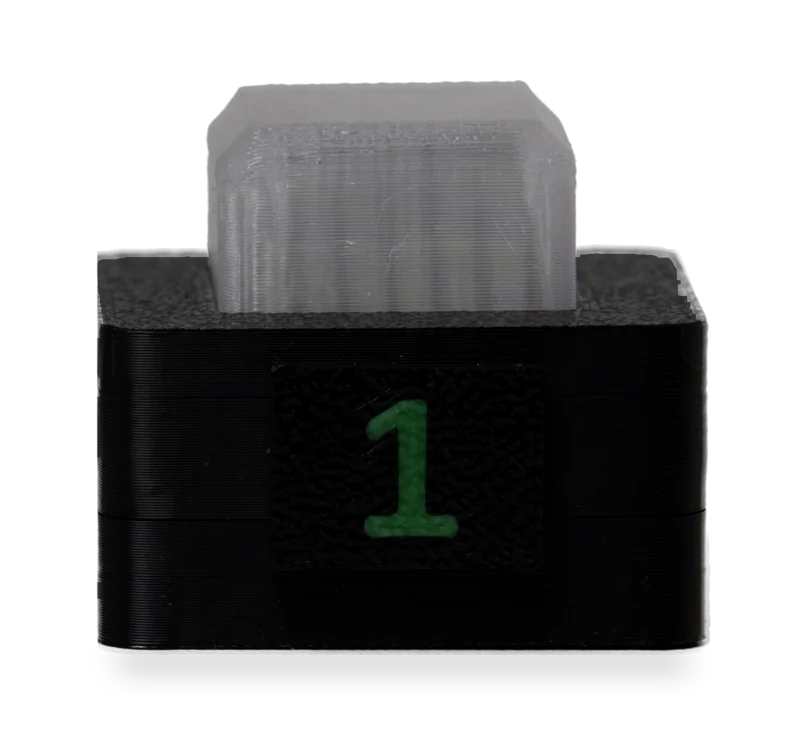
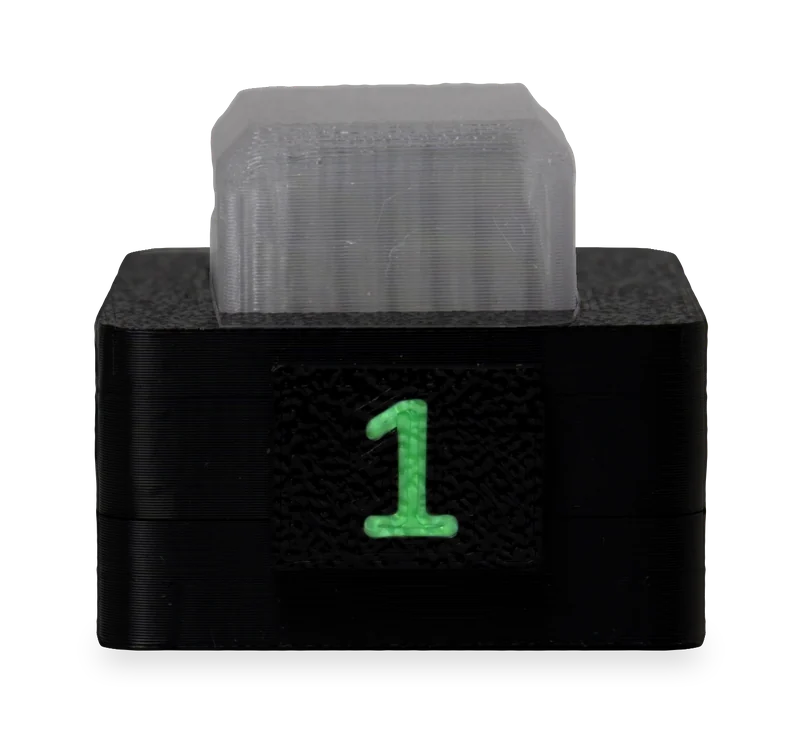
Cue 360 photos: clean cut-out from measured edges, no cable, brighter number plate

diff --git a/shop/index.html b/shop/index.html
@@ -54,14 +54,14 @@
   </div>
   <div class="kits">
     <article class="kit" data-rise>
-      <div class="pair"><img class="photo" src="/static/photos/lite-program.webp" alt="" width="730" height="739" loading="lazy"><span class="plus" aria-hidden="true">+</span><img class="photo" src="/static/photos/360-program.webp?v=2" alt="" width="800" height="751" loading="lazy"></div>
+      <div class="pair"><img class="photo" src="/static/photos/lite-program.webp" alt="" width="730" height="739" loading="lazy"><span class="plus" aria-hidden="true">+</span><img class="photo" src="/static/photos/360-program.webp?v=3" alt="" width="800" height="751" loading="lazy"></div>
       <h3>Camera kit</h3>
       <p>Cue Lite and Cue 360.</p>
       <p class="price">$139 <span class="save">Save $19</span></p>
       <a class="pill" data-buy="camera" href="#signup">Pre-order</a>
     </article>
     <article class="kit" data-rise style="--i:1">
-      <div class="pair"><img class="photo" src="/static/photos/cue-dock.webp" alt="" width="1000" height="1147" loading="lazy"><span class="plus" aria-hidden="true">+</span><img class="photo" src="/static/photos/360-program.webp?v=2" alt="" width="800" height="751" loading="lazy"></div>
+      <div class="pair"><img class="photo" src="/static/photos/cue-dock.webp" alt="" width="1000" height="1147" loading="lazy"><span class="plus" aria-hidden="true">+</span><img class="photo" src="/static/photos/360-program.webp?v=3" alt="" width="800" height="751" loading="lazy"></div>
       <h3>Rig kit</h3>
       <p>Downstage Cue and Cue 360.</p>
       <p class="price">$169 <span class="save">Save $29</span></p>
@@ -102,7 +102,7 @@
       <p class="spec"><b>USB-C power<sup class="fn"><a href="#fn-5" aria-label="Note 5">5</a></sup></b>A USB-C charger or power bank. Built-in backup battery: about 1 h 20 min.</p>
     </div>
     <div class="col" data-rise style="--i:2">
-      <img class="photo" src="/static/photos/360-program.webp?v=2" alt="Cue 360" width="800" height="751" loading="lazy">
+      <img class="photo" src="/static/photos/360-program.webp?v=3" alt="Cue 360" width="800" height="751" loading="lazy">
       <h3>Cue 360</h3>
       <p class="lead">The talent's light.</p>
       <p class="price">$59</p>
